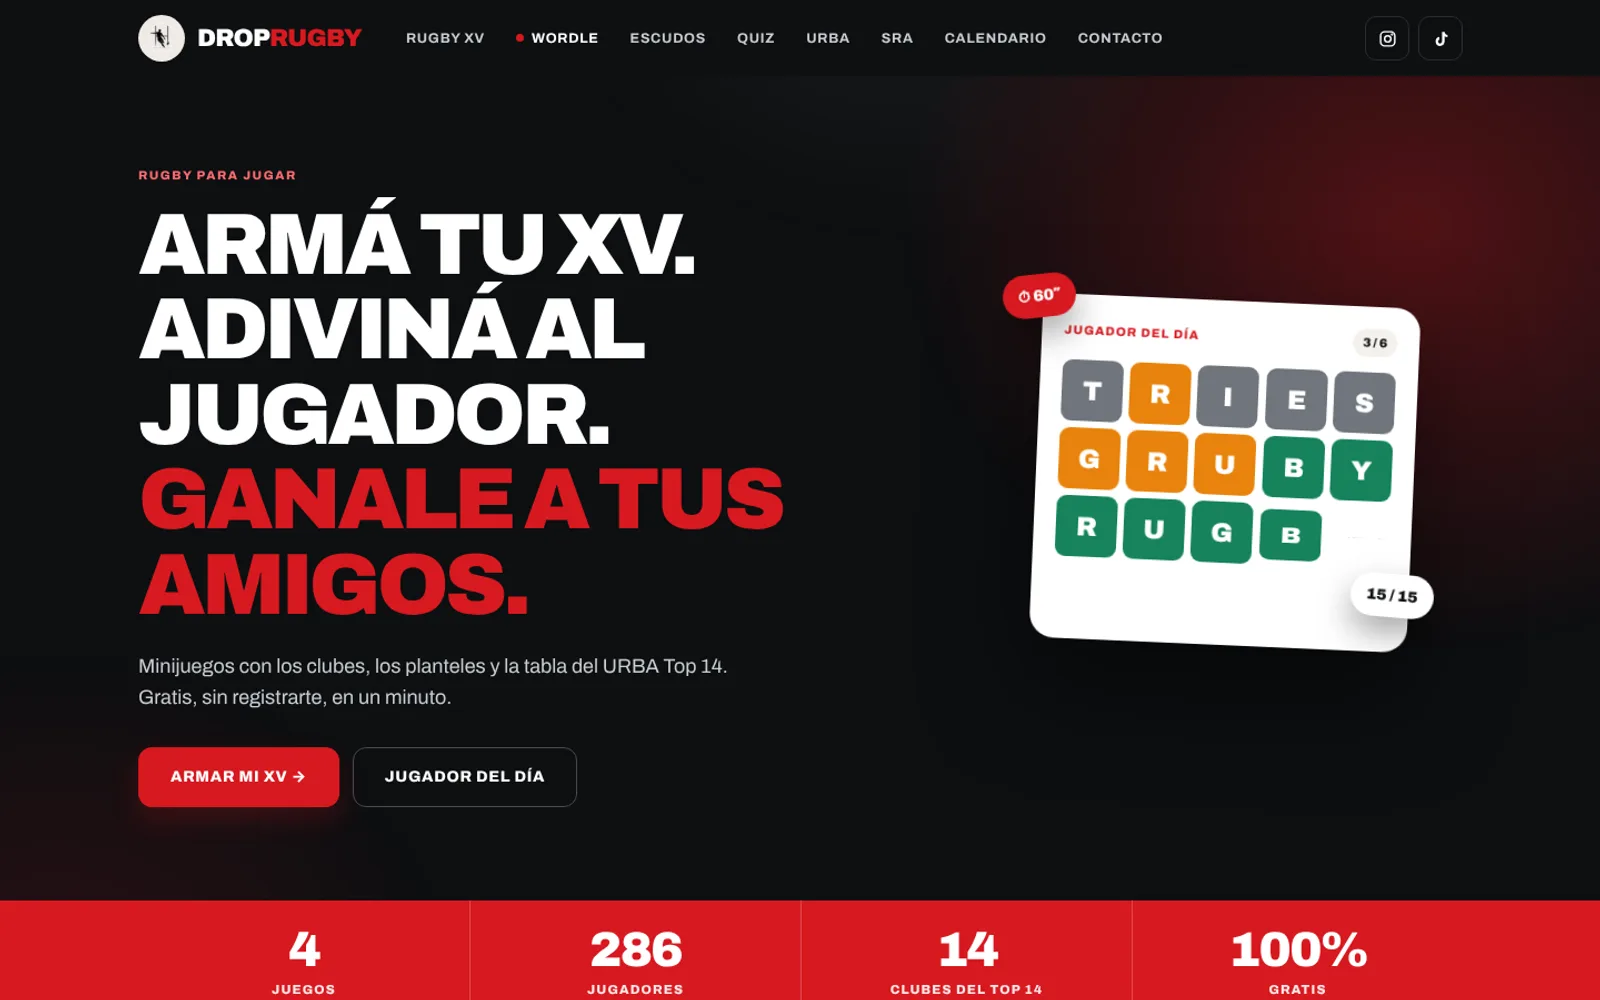
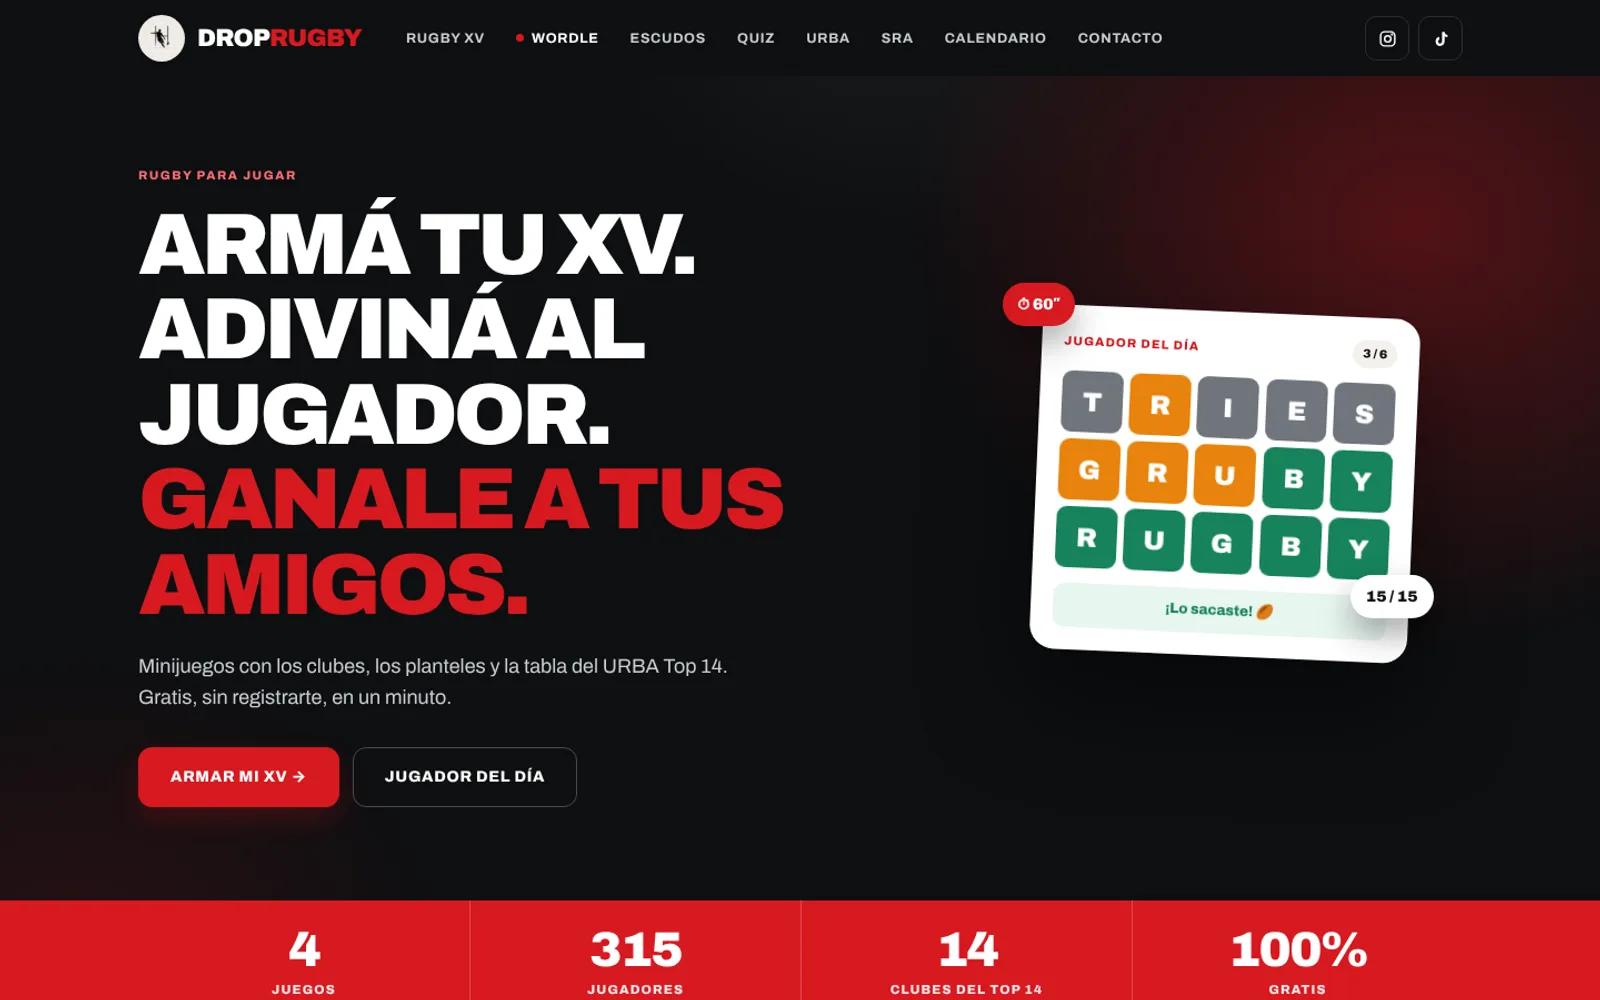
Capturas propias de cada proyecto; Zona Cero y M10 en lugar de Keena's y CornerApp
- El script de capturas recorre la página, espera fuentes e imágenes y evita animaciones a medio terminar
- Capturas nuevas (compu y celular) de los 5 proyectos: ya no dependen de thum.io
- Nuevos casos: Zona Cero (barbería) y M10 Canchas de Fútbol (Menotti)
- Se quitan Keena's Barbería y CornerApp; sus URLs viejas redirigen a /proyectos
- Rubros y El estudio apuntan a los casos nuevos

Claude-Session: https://claude.ai/code/session_01WiwM9FET9QcLpZXHoEmN3o

Changed region(s): [[0.625, 0.248, 0.9062, 0.682], [0.375, 0.93, 0.4375, 0.961]]

diff --git a/components/sections/About.tsx b/components/sections/About.tsx
@@ -23,12 +23,11 @@ export function About({ kicker = '06 · El estudio', full = false }: { kicker?: 
             </p>
             <p>
               Diseño y programo cada proyecto de punta a punta, así que hablás siempre con quien lo construye.
-              También desarrollo{' '}
-              <Link href="/proyectos/cornerapp" className="text-fg underline underline-offset-3">
-                Córner
+              Por ejemplo, el sistema de reservas de{' '}
+              <Link href="/proyectos/menotti" className="text-fg underline underline-offset-3">
+                M10 Canchas de Fútbol
               </Link>
-              , un sistema de turnos para complejos deportivos: la misma base que uso para los sistemas a
-              medida.
+              : turnos online, agenda, caja y avisos al celular, todo en un mismo panel.
             </p>
             {full ? (
               <p>

diff --git a/lib/site.ts b/lib/site.ts
@@ -113,8 +113,8 @@ export const included = [
 
 /** Rubros con los que trabajamos. slug: caso de estudio relacionado (si existe). */
 export const industries = [
-  { name: 'Barberías y peluquerías', detail: 'Turnos online y servicios', slug: 'keenas-barberia' },
-  { name: 'Complejos deportivos', detail: 'Reservas de canchas 24 h', slug: 'cornerapp' },
+  { name: 'Barberías y peluquerías', detail: 'Turnos online y servicios', slug: 'zona-cero' },
+  { name: 'Complejos deportivos', detail: 'Reservas de canchas 24 h', slug: 'menotti' },
   { name: 'Inmobiliarias y desarrollos', detail: 'Unidades, fotos y consultas', slug: 'quinzo-1' },
   { name: 'Institutos y educación', detail: 'Cursos, niveles e inscripciones', slug: 'castleton-english' },
   { name: 'Clubes y entretenimiento', detail: 'Contenido, juegos y comunidad', slug: 'drop-rugby' },

diff --git a/next.config.ts b/next.config.ts
@@ -59,6 +59,13 @@ const nextConfig: NextConfig = {
       { source: '/api/(.*)', headers: [{ key: 'Cache-Control', value: 'no-store' }] },
     ];
   },
+  async redirects() {
+    // Casos que ya no están en el portfolio: los links viejos van al listado de proyectos
+    return [
+      { source: '/proyectos/cornerapp', destination: '/proyectos', permanent: true },
+      { source: '/proyectos/keenas-barberia', destination: '/proyectos', permanent: true },
+    ];
+  },
   async rewrites() {
     // El panel sigue siendo el HTML de siempre, servido en /admin
     return [{ source: '/admin', destination: '/admin.html' }];
